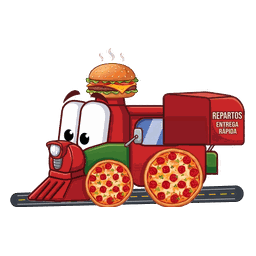
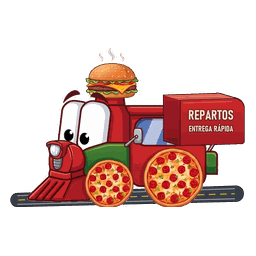
Cajon de repartos redibujado con perspectiva de caja
El cajon estirado se veia torcido y pegado. Ahora se dibuja como una caja:
frente largo con el texto, costado y tapa que salen de trasladar el frente.

diff --git a/scripts/preparar-logo.py b/scripts/preparar-logo.py
@@ -34,7 +34,7 @@ from collections import deque
 from pathlib import Path
 
 import numpy as np
-from PIL import Image, ImageDraw
+from PIL import Image, ImageDraw, ImageFilter, ImageFont
 
 RAIZ = Path(__file__).resolve().parent.parent
 
@@ -157,114 +157,206 @@ def quitar_fondo(original: Image.Image) -> Image.Image:
 
 
 # ---------------------------------------------------------------------------
-# El cajon de repartos, mas grande
+# El cajon de repartos, redibujado
 # ---------------------------------------------------------------------------
 #
 # Lo que el logo tiene que decir primero es "servicio express", y el cajon es
-# lo que lo dice. Se agranda, se mete hasta la mitad de la ventana de la
-# cabina y sale mas a la derecha del tren, como lo marco el negocio.
+# lo que lo dice. Va mas grande, metido hasta la mitad de la ventana de la
+# cabina y saliendo del tren hacia la derecha, como lo marco el negocio.
 #
-# En el dibujo original el cajon va DETRAS de la cabina: el techo le tapa la
-# parte de abajo del costado. Para ponerlo delante hay que inventarle esa
-# parte que nunca se dibujo, y su contorno.
+# No se estira el cajon original: estirar su costado lo dejaba torcido y con
+# cara de pegado. Se borra y se dibuja de nuevo como una caja de verdad: un
+# frente largo con el texto, y el costado y la tapa que se alejan hacia arriba
+# a la izquierda, en la misma direccion que en el dibujo original. Todas las
+# caras salen de trasladar el frente, asi la perspectiva no puede quedar mal.
 #
 # Coordenadas sobre la imagen ya recortada por quitar_fondo().
 
-# La cabina, que tapa el costado del cajon: su borde sigue el contorno oscuro
-# del techo y baja por la pared de atras.
+# La cabina, que se queda donde esta: su borde sigue el contorno oscuro del
+# techo y baja por la pared de atras. Sirve para no borrarla junto al cajon.
 CABINA = [(1380, 508), (1445, 508), (1500, 516), (1560, 543), (1605, 576),
           (1632, 618), (1652, 678), (1656, 880)]
 
-# El cajon original. Abajo termina en 841: lo que sigue es la repisa gris y la
-# punta del soporte, que son del tren y se quedan donde estan.
-CAJON = (1438, 400, 841)            # x izquierda, y arriba, y abajo
-CAJON_BORDE = (1438, 1453)          # contorno izquierdo original
-CAJON_FRENTE_X = 1690               # donde empieza la cara con el texto
-CAJON_COLUMNA_COSTADO = 1672        # tramo de costado que si se ve
-CAJON_COSTADO_DESDE_Y = 480         # desde aqui el costado se reconstruye
-CAJON_CONTORNO_DESDE_Y = 470        # y su contorno, solapado con el original
+# El cajon original que se borra: de x 1438 a la derecha, de y 400 a 841.
+CAJON_ORIGINAL = (1438, 400, 841)
 
-# Donde queda el cajon nuevo. El frente con el texto solo se escala, para que
-# "REPARTOS" no se deforme; lo que se alarga es el costado, que es liso.
-CAJON_ESCALA = 1.15
-CAJON_NUEVO_IZQUIERDA = 1400        # la mitad de la ventana
-CAJON_NUEVO_DERECHA = 2150          # sale del tren hacia la derecha
-CAJON_NUEVO_ABAJO = 885             # tapa la repisa gris que asomaba debajo
+# El frente, la cara con el texto. Sube un poco hacia la derecha, como la
+# carretera, para que la caja acompane la inclinacion del tren.
+FRENTE_IZQUIERDA, FRENTE_DERECHA = 1560, 2140
+FRENTE_ARRIBA = (474, 456)          # y de arriba en cada extremo
+FRENTE_ALTO = 410
+ESQUINA_ARRIBA = 95                 # la esquina redondeada de arriba a la derecha
+ESQUINA_ABAJO = 26
+# Hacia donde se aleja la caja. Con el costado corto la caja se lee larga.
+PROFUNDIDAD = (-150, -44)
+GROSOR_CONTORNO = 13                # igual de grueso que el del tren
+
+FRENTE_CLARO = (205, 42, 42)
+FRENTE_OSCURO = (160, 28, 36)
+COSTADO_CLARO = (165, 28, 36)
+COSTADO_OSCURO = (122, 22, 30)      # el costado mira lejos de la luz
+TAPA = (200, 78, 70)
+TAPA_BRILLO = (228, 108, 94)
+BRILLO_FRENTE = (232, 96, 86)
+BRILLO_TAPA = (240, 140, 124)
+LETRA = (255, 222, 205)
+CONTORNO_LETRA = (95, 28, 23)
+FUENTE = Path(r'C:\Windows\Fonts\bahnschrift.ttf')
+
+AUMENTO = 2  # se dibuja al doble y se reduce, para bordes suaves
+
+
+def _y_arriba(x: float) -> float:
+    t = (x - FRENTE_IZQUIERDA) / (FRENTE_DERECHA - FRENTE_IZQUIERDA)
+    return FRENTE_ARRIBA[0] + (FRENTE_ARRIBA[1] - FRENTE_ARRIBA[0]) * t
+
+
+def _y_abajo(x: float) -> float:
+    return _y_arriba(x) + FRENTE_ALTO
+
+
+def _arco(cx: float, cy: float, radio: float, desde: float, hasta: float, pasos: int):
+    return [(cx + radio * np.cos(np.radians(a)), cy + radio * np.sin(np.radians(a)))
+            for a in np.linspace(desde, hasta, pasos)]
+
+
+def _envolvente(puntos):
+    """Envolvente convexa, por cadena monotona."""
+    pts = sorted(set(puntos))
+
+    def cruz(o, a, b):
+        return (a[0] - o[0]) * (b[1] - o[1]) - (a[1] - o[1]) * (b[0] - o[0])
+
+    bajo, alto = [], []
+    for p in pts:
+        while len(bajo) >= 2 and cruz(bajo[-2], bajo[-1], p) <= 0:
+            bajo.pop()
+        bajo.append(p)
+    for p in reversed(pts):
+        while len(alto) >= 2 and cruz(alto[-2], alto[-1], p) <= 0:
+            alto.pop()
+        alto.append(p)
+    return bajo[:-1] + alto[:-1]
+
+
+def _rellenar(lienzo: Image.Image, poligono, arriba, abajo) -> None:
+    """Pinta el poligono con un degradado de arriba hacia abajo."""
+    ys = [p[1] for p in poligono]
+    y0, y1 = int(min(ys)), int(max(ys)) + 1
+    t = np.clip((np.arange(lienzo.height) - y0) / max(1, y1 - y0), 0, 1)[:, None]
+    filas = np.array(arriba) * (1 - t) + np.array(abajo) * t
+    color = np.repeat(filas[:, None, :], lienzo.width, axis=1).astype(np.uint8)
+    capa = Image.fromarray(color, 'RGB').convert('RGBA')
+    mascara = Image.new('L', lienzo.size, 0)
+    ImageDraw.Draw(mascara).polygon(poligono, fill=255)
+    capa.putalpha(mascara)
+    lienzo.alpha_composite(capa)
+
+
+def dibujar_cajon(ancho: int, alto: int) -> Image.Image:
+    k = AUMENTO
+    dx, dy = PROFUNDIDAD
+
+    def z(p):
+        return (p[0] * k, p[1] * k)
+
+    def lejos(p):
+        return (p[0] + dx, p[1] + dy)
+
+    # Frente, con sus dos esquinas redondeadas a la derecha.
+    corte = FRENTE_DERECHA - ESQUINA_ARRIBA
+    centro_arriba = (corte, _y_arriba(FRENTE_DERECHA) + ESQUINA_ARRIBA)
+    centro_abajo = (FRENTE_DERECHA - ESQUINA_ABAJO, _y_abajo(FRENTE_DERECHA) - ESQUINA_ABAJO)
+    frente = ([(FRENTE_IZQUIERDA, _y_arriba(FRENTE_IZQUIERDA)), (corte, _y_arriba(corte))]
+              + _arco(*centro_arriba, ESQUINA_ARRIBA, -90, 0, 24)
+              + _arco(*centro_abajo, ESQUINA_ABAJO, 0, 90, 10)
+              + [(FRENTE_IZQUIERDA, _y_abajo(FRENTE_IZQUIERDA))])
+
+    # Costado: el borde izquierdo del frente y su copia alejada.
+    a1 = (FRENTE_IZQUIERDA, _y_arriba(FRENTE_IZQUIERDA))
+    a2 = (FRENTE_IZQUIERDA, _y_abajo(FRENTE_IZQUIERDA))
+    costado = [a1, a2, lejos(a2), lejos(a1)]
+
+    # Tapa: la cara de atras (el frente alejado), la franja que la une con el
+    # borde de arriba, y el tubo que barre la esquina redondeada.
+    borde_arriba = [a1, (corte, _y_arriba(corte))] + _arco(*centro_arriba, ESQUINA_ARRIBA, -90, -40, 10)
+    atras = [lejos(p) for p in frente]
+    franja = borde_arriba + [lejos(p) for p in reversed(borde_arriba)]
+    arco = _arco(*centro_arriba, ESQUINA_ARRIBA, -90, 0, 24)
+    tubo = _envolvente(arco + [lejos(p) for p in arco])
+
+    caras = {
+        'atras': [z(p) for p in atras],
+        'franja': [z(p) for p in franja],
+        'tubo': [z(p) for p in tubo],
+        'costado': [z(p) for p in costado],
+        'frente': [z(p) for p in frente],
+    }
+
+    lienzo = Image.new('RGBA', (ancho * k, alto * k), (0, 0, 0, 0))
+
+    # Contorno parejo: la silueta entera, engordada, en el color oscuro.
+    silueta = Image.new('L', lienzo.size, 0)
+    for poligono in caras.values():
+        ImageDraw.Draw(silueta).polygon(poligono, fill=255)
+    engordada = silueta.filter(ImageFilter.MaxFilter(GROSOR_CONTORNO * k | 1))
+    contorno = Image.new('RGBA', lienzo.size, (*CONTORNO, 255))
+    contorno.putalpha(engordada)
+    lienzo.alpha_composite(contorno)
+
+    for nombre in ('atras', 'franja', 'tubo'):
+        _rellenar(lienzo, caras[nombre], TAPA_BRILLO, TAPA)
+    _rellenar(lienzo, caras['costado'], COSTADO_CLARO, COSTADO_OSCURO)
+    _rellenar(lienzo, caras['frente'], FRENTE_CLARO, FRENTE_OSCURO)
+
+    d = ImageDraw.Draw(lienzo)
+    # Aristas entre caras, mas finas que el contorno de afuera.
+    fino = (GROSOR_CONTORNO // 2) * k
+    d.line([z(a1), z(a2)], fill=CONTORNO, width=fino)
+    d.line([z(p) for p in borde_arriba], fill=CONTORNO, width=fino)
+
+    # Brillos: bajo la arista del frente y a media tapa.
+    brillo = [z((x, _y_arriba(x) + 26)) for x in range(FRENTE_IZQUIERDA + 30, corte - 10, 10)]
+    d.line(brillo, fill=BRILLO_FRENTE, width=7 * k)
+    media = [(p[0] + dx * 0.55, p[1] + dy * 0.55) for p in borde_arriba[:2]]
+    d.line([z(p) for p in media], fill=BRILLO_TAPA, width=6 * k)
+
+    # El texto, centrado en el frente.
+    grande = ImageFont.truetype(str(FUENTE), 122 * k)
+    grande.set_variation_by_name('Bold Condensed')
+    chica = ImageFont.truetype(str(FUENTE), 74 * k)
+    chica.set_variation_by_name('Bold Condensed')
+    cx = (FRENTE_IZQUIERDA + FRENTE_DERECHA - 20) / 2
+    cy = (_y_arriba(cx) + _y_abajo(cx)) / 2
+    for texto, fuente, corrimiento in (('REPARTOS', grande, -56), ('ENTREGA RÁPIDA', chica, 66)):
+        d.text(z((cx, cy + corrimiento)), texto, font=fuente, anchor='mm',
+               fill=LETRA, stroke_width=6 * k, stroke_fill=CONTORNO_LETRA)
+
+    return lienzo.resize((ancho, alto), Image.LANCZOS)
 
 
 def agrandar_cajon(logo: Image.Image) -> Image.Image:
     ancho, alto = logo.size
     pixeles = np.array(logo)
 
+    # Se borra el cajon original, sin tocar la cabina.
     mascara = Image.new('L', (ancho, alto), 0)
     ImageDraw.Draw(mascara).polygon(
         CABINA + [(CABINA[-1][0], alto), (CABINA[0][0], alto)], fill=255
     )
     cabina = np.array(mascara) > 0
-
-    x0, y0, y1 = CAJON
+    x0, y0, y1 = CAJON_ORIGINAL
     en_caja = np.zeros((alto, ancho), bool)
     en_caja[y0:y1, x0:] = True
     cajon = en_caja & (pixeles[:, :, 3] > 0) & ~cabina
+    pixeles[cajon, 3] = 0
+    pixeles[cajon, :3] = CONTORNO
 
-    capa = np.zeros_like(pixeles)
-    capa[cajon] = pixeles[cajon]
-
-    # El costado se reconstruye fila por fila con el color del tramo que si
-    # se ve. Lo que habia ahi era en parte el techo de la cabina.
-    for y in range(CAJON_COSTADO_DESDE_Y, y1):
-        capa[y, CAJON_BORDE[1]:CAJON_COLUMNA_COSTADO] = pixeles[y, CAJON_COLUMNA_COSTADO]
-        capa[y, CAJON_BORDE[1]:CAJON_COLUMNA_COSTADO, 3] = 255
-
-    # Contorno izquierdo y de abajo, que antes no hacia falta.
-    borde = np.array([*CONTORNO, 255], np.uint8)
-    capa[CAJON_CONTORNO_DESDE_Y:y1, CAJON_BORDE[0]:CAJON_BORDE[1]] = borde
-    capa[y1 - 15:y1, CAJON_BORDE[0]:CAJON_COLUMNA_COSTADO] = borde
-
-    caja_img = Image.fromarray(capa, 'RGBA').crop((x0, y0, ancho, y1))
-    caja_img = caja_img.crop(caja_img.getbbox())
-
-    # Esquina de abajo a la izquierda redondeada, como la de arriba.
-    radio = 22
-    redondeo = Image.new('L', caja_img.size, 255)
-    rd = ImageDraw.Draw(redondeo)
-    rd.rectangle([0, caja_img.height - radio, radio, caja_img.height], fill=0)
-    rd.pieslice([0, caja_img.height - 2 * radio, 2 * radio, caja_img.height], 90, 180, fill=255)
-    a = np.array(caja_img)
-    a[:, :, 3] = np.minimum(a[:, :, 3], np.array(redondeo))
-    caja_img = Image.fromarray(a, 'RGBA')
-
-    # Tres tramos: contorno, costado (se alarga) y frente (no se deforma).
-    corte_borde = CAJON_BORDE[1] - CAJON_BORDE[0]
-    corte_frente = CAJON_FRENTE_X - CAJON_BORDE[0]
-    tramo_borde = caja_img.crop((0, 0, corte_borde, caja_img.height))
-    tramo_costado = caja_img.crop((corte_borde, 0, corte_frente, caja_img.height))
-    tramo_frente = caja_img.crop((corte_frente, 0, caja_img.width, caja_img.height))
-
-    total = int((CAJON_NUEVO_DERECHA - CAJON_NUEVO_IZQUIERDA) / CAJON_ESCALA)
-    ancho_costado = total - tramo_borde.width - tramo_frente.width
-    tramo_costado = tramo_costado.resize((ancho_costado, caja_img.height), Image.LANCZOS)
-
-    largo = Image.new('RGBA', (total, caja_img.height), (0, 0, 0, 0))
-    largo.paste(tramo_borde, (0, 0))
-    largo.paste(tramo_costado, (tramo_borde.width, 0))
-    largo.paste(tramo_frente, (tramo_borde.width + ancho_costado, 0))
-
-    grande = largo.resize(
-        (int(largo.width * CAJON_ESCALA), int(largo.height * CAJON_ESCALA)), Image.LANCZOS
-    )
-    arriba = CAJON_NUEVO_ABAJO - grande.height
-
-    resto = pixeles.copy()
-    resto[cajon, 3] = 0
-    resto[cajon, :3] = CONTORNO
-
-    ancho_final = max(ancho, CAJON_NUEVO_IZQUIERDA + grande.width)
-    sube = max(0, -arriba)
-    final = Image.new('RGBA', (ancho_final, alto + sube), (0, 0, 0, 0))
-    final.alpha_composite(Image.fromarray(resto, 'RGBA'), (0, sube))
+    ancho_final = max(ancho, FRENTE_DERECHA + GROSOR_CONTORNO)
+    final = Image.new('RGBA', (ancho_final, alto), (0, 0, 0, 0))
+    final.alpha_composite(Image.fromarray(pixeles, 'RGBA'))
     # Delante de la cabina: tapar parte de la ventana es a proposito.
-    final.alpha_composite(grande, (CAJON_NUEVO_IZQUIERDA, arriba + sube))
+    final.alpha_composite(dibujar_cajon(ancho_final, alto))
     return final
 
 
